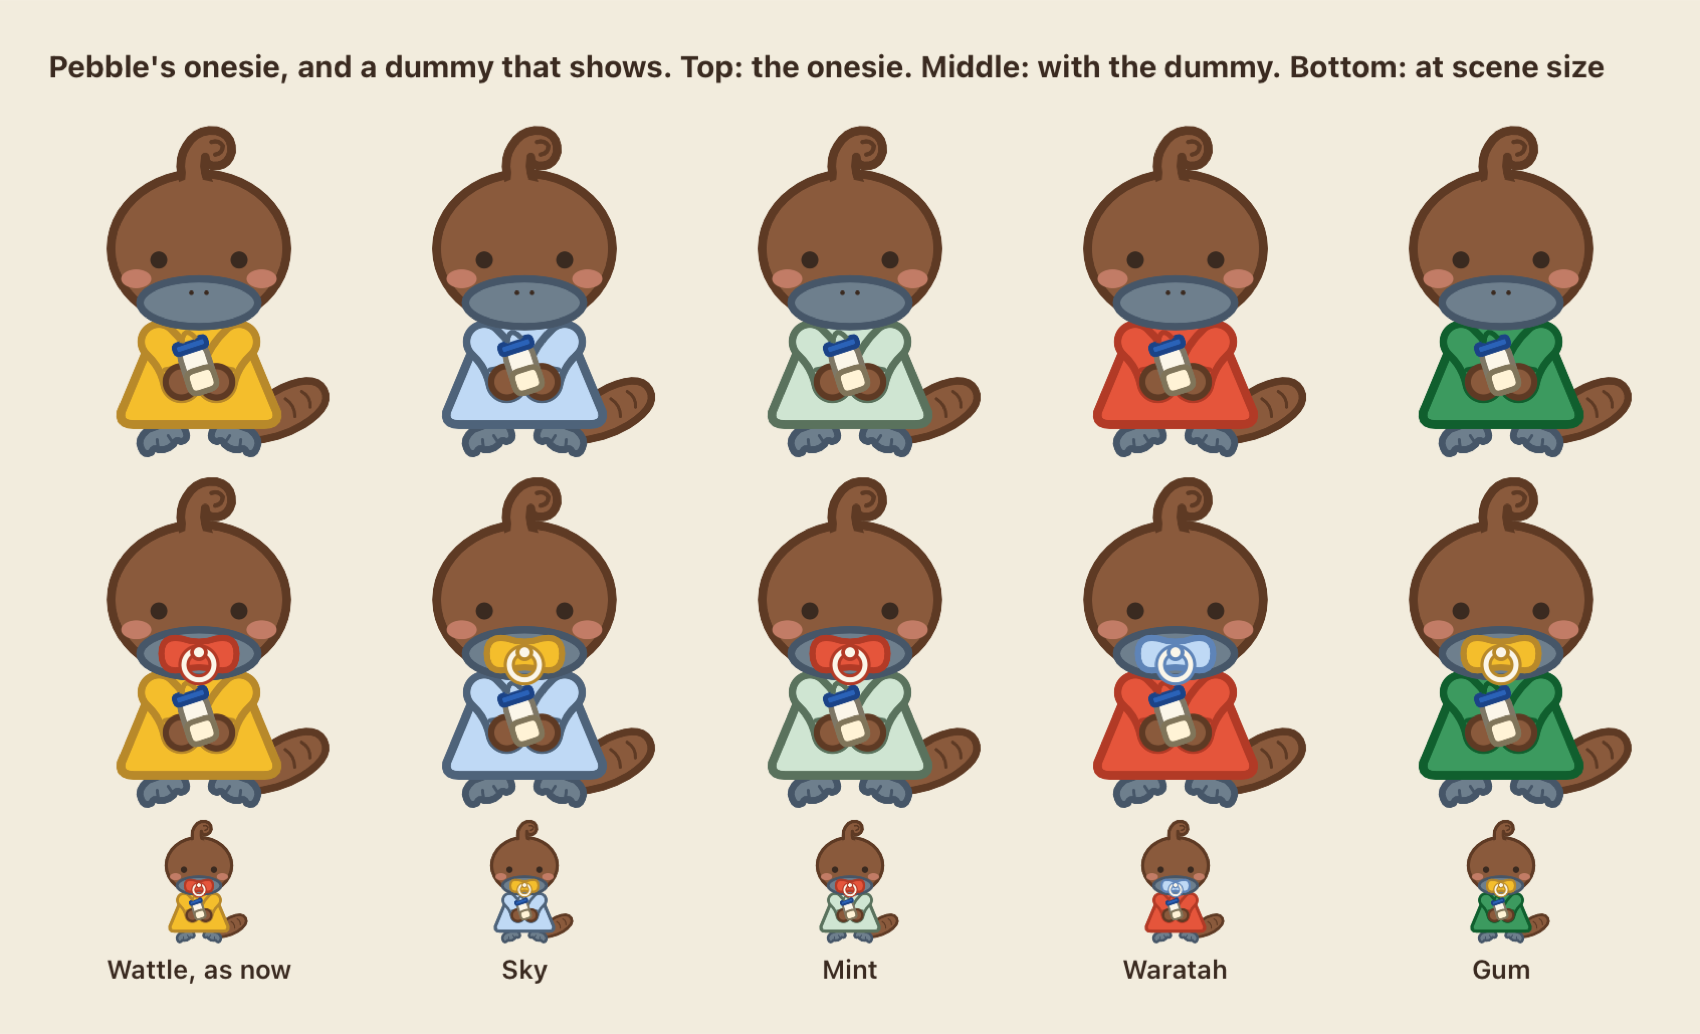
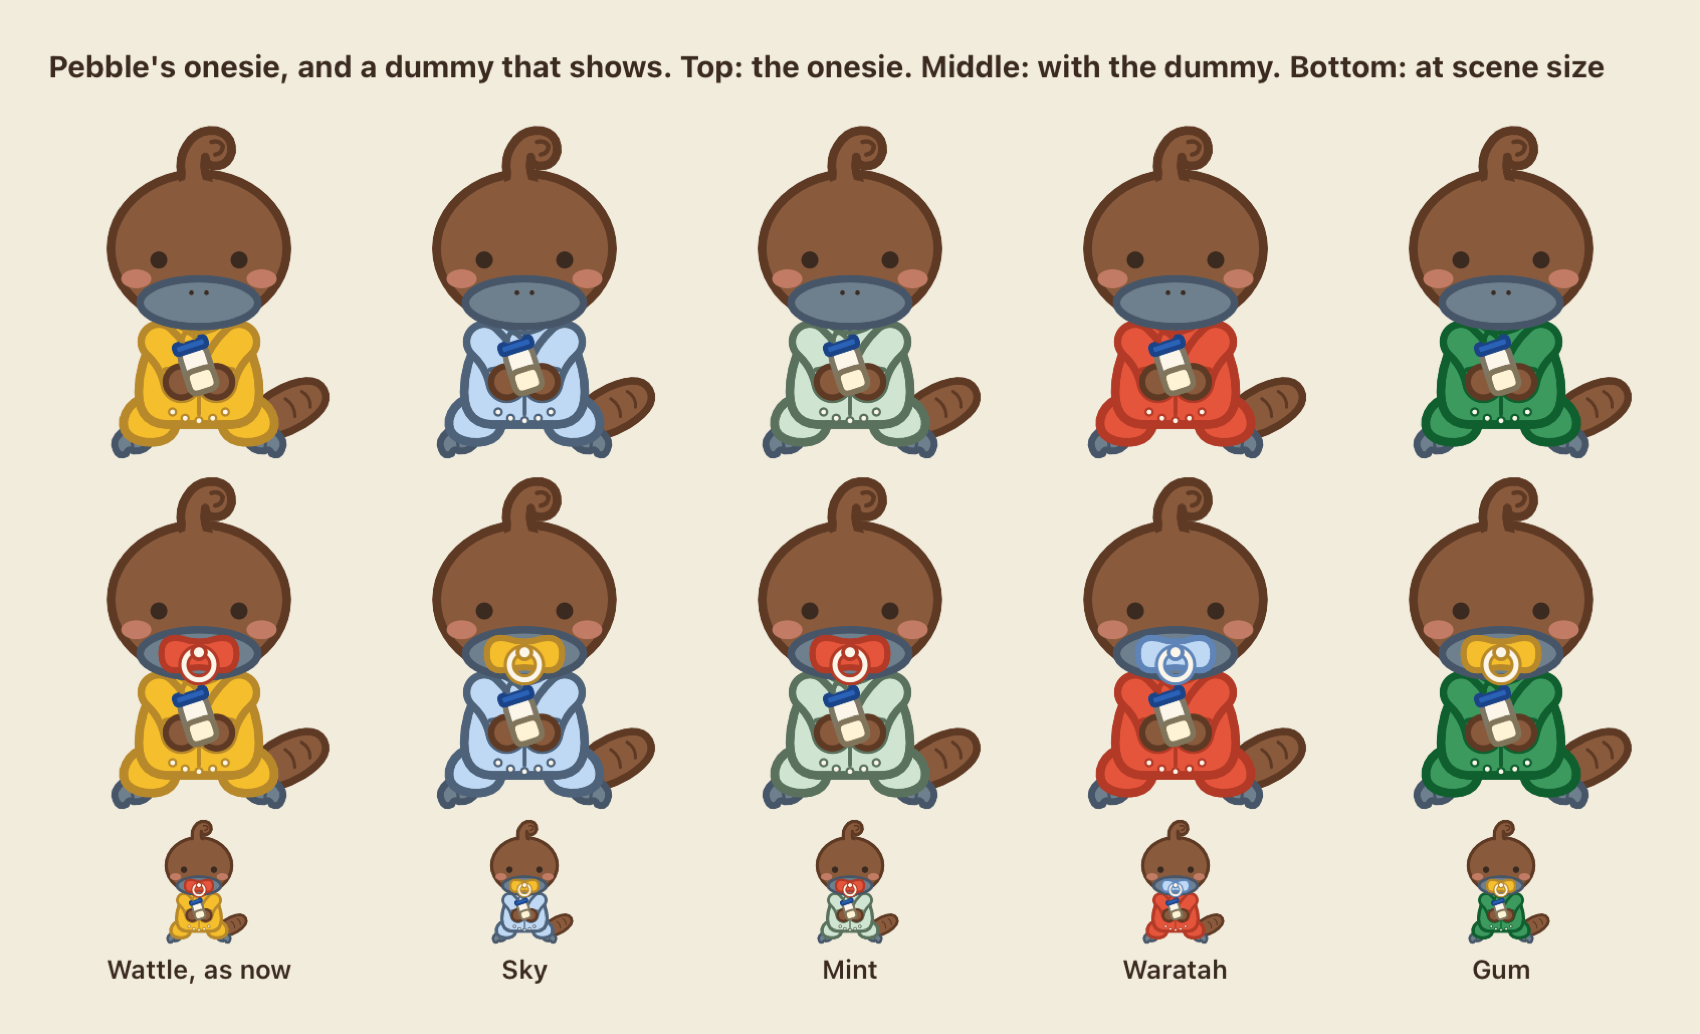
Pebble: a babygro with legs and poppers, not a flared dress

diff --git a/app/tools/make_cast_rigs.py b/app/tools/make_cast_rigs.py
@@ -836,6 +836,31 @@ def regrow_tail(parts, grown, sitting=False):
     tail['pivot'] = [round(bx + 6, 1), round(by - 3, 1)]
     return parts
 
+
+# Pebble's babygro (Tom, 14 November 2026). The canvas drew a flared triangle, which read as a dress. A
+# babygro is close to the body: a rounded suit with a leg each side, poppers round the inside of the legs,
+# a seam down the front and a neckband. His feet come out of the ends of the legs.
+def babygro(parts):
+    upper = next(p for p in parts if p['id'] == 'upper')
+    suit = upper['shapes'][0]
+    def piece(d, w=None): return {'kind': 'path', 'd': d, 'fill': suit['fill'], 'stroke': suit['stroke'], 'tint': suit.get('tint'), 'width': w or suit['width']}
+    def seam(d, w=3): return {'kind': 'path', 'd': d, 'stroke': suit.get('tint') or INK, 'width': w, 'cap': 'round'}
+    leg = 'M86 224 Q106 230 102 249 Q98 264 77 262 Q58 259 60 244 Q64 227 86 224 Z'
+    cuff = 'M63 240 Q59 250 66 259'
+    body = 'M92 166 Q120 158 148 166 Q168 194 168 222 Q168 247 146 248 L94 248 Q72 247 72 222 Q72 194 92 166 Z'
+    poppers = [{'kind': 'ellipse', 'x': x, 'y': y, 'rx': 2.8, 'ry': 2.8, 'fill': '#FBF6E9', 'stroke': INK, 'tint': suit.get('tint'), 'width': 1.8}
+               for x, y in ((99, 238), (109, 243), (120, 245), (131, 243), (141, 238))]
+    upper['shapes'] = ([piece(leg), piece(mirrored(leg)), seam(cuff, 3.5), seam(mirrored(cuff), 3.5), piece(body),
+                        seam('M120 172 L120 240'), seam('M102 169 Q120 181 138 169', 3.5)] + poppers + upper['shapes'][1:])
+    # His feet, out at the ends of the legs.
+    for side, dx in (('left', -20), ('right', 20)):
+        foot = next(p for p in parts if p['id'] == f'foot-{side}')
+        for shp in foot['shapes']:
+            if 'd' in shp: shp['d'] = moved(shp['d'], dx, 1)
+            if 'x' in shp: shp['x'] += dx; shp['y'] += 1
+        foot['pivot'] = [foot['pivot'][0] + dx, foot['pivot'][1] + 1]
+    return parts
+
 def build(name, svg, height, about, shade, moves, puggle):
     grown = height > 400
     if grown:
@@ -973,6 +998,7 @@ def build(name, svg, height, about, shade, moves, puggle):
             closed.append({'kind': 'path', 'd': f'M{x - r:g} {y - 1:g} Q{x:g} {y + r - 1:g} {x + r:g} {y - 1:g}', 'stroke': INK, 'width': 4.5, 'cap': 'round'})
         parts.append({'id': 'eyes-closed', 'parent': 'head', 'pivot': [120, 110], 'when': 'eyes=closed', 'shapes': closed})
     parts = regrow_tail(parts, grown, sitting=name == 'pebble')
+    if name == 'pebble': parts = babygro(parts)
     parts = join_to_head(name, parts)
     parts = grow_hair(name, parts)
     parts = dress_for_weather(name, parts, puggle, shade)

diff --git a/docs/baby-tracker-spec.md b/docs/baby-tracker-spec.md
@@ -564,6 +564,7 @@ Two tiers, confirmed by Tom: **line icons with one accent in the app; full-colou
 - **How an umbrella is held (Tom, 2026-11-14, built).** The umbrella stands straight up, at one height and one size for everyone, and **all of it is in front of the character**: shaft, handle and canopy are the last things drawn, over the head, ears, spines, bows and hats. So the shaft does not cross the face, it stands beside it, and the arm changes: with the umbrella up, a second right arm (`arm-right-hold`) is shown, raised with the fist up beside the cheek, so only a short length of shaft shows below the canopy, and the usual arm is hidden. Heads sit at one height in every drawing, so the fist is at the same height against the face for grown-ups and children. The wooden handle is short and hooks round just below the fist. The canopy is full size and centred on the shaft, so it reaches past the character's side; these four rigs carry `sideroom`, and `CastView` draws them on a wider surface without changing where they stand or how much room they take. The canopy has three ribs, fine lines in a darker shade of its own colour from the tip to each point where two scallops meet. They cannot wave with that arm while holding it.
 - **The platypus tail, redrawn (Tom, 2026-11-14, built).** The tail was an oval lying beside the legs with a line down its middle and two across: it read as a leaf, and on the grown-ups it floated clear of the body (Dad's hung beside his knees). It is now a **paddle**: narrow where it leaves the body, broad and round at the end, with two short ridges across and no midline. Its base is tucked in behind the body, so it always grows out of them. It leaves the body at the hip, level with the hand, not down by the knees; a sitting baby's stays near the ground. The same shape for Puggle, Pebble, Mum, Dad, Nan and Pop (`paddle` and `regrow_tail` in `app/tools/make_cast_rigs.py`; Puggle's is in `puggle.rig.json`). Its pivot moved to the new base. Sheet: `docs/previews/platypus-tails.png`.
 - **Decided 14 November 2026 (Tom).** (1) **Nan has a set of curls**, not a bun: built (`curls`, with her side curls). (2) **Quill's spines stay the brown of her head.** (3) **Pebble's dummy** is a mock-up only, as an occasional prop for sleepy moments: a shield and ring resting on the front of his closed bill, which does not change (`docs/previews/pebble-dummy.png`); not built. (4) **The tested movement is switched on in the app** (`RigRuntime.refined` now defaults to on): the blink that shuts fast and opens slowly; eyes leading a head tilt; the hop with weight (`play` picks a move's `-refined` version where there is one); the eye smear (checked frame by frame: stretched at 16 and 50 ms, round again by 100 ms; `docs/previews/eye-smear.png`); and ears, spines and hair taking a position for a feeling (`RigFeeling` in `Rig.swift`): sleepy while asleep, happy during a wave or a hooray, a smaller happy for a nod, surprised on waking, curious while the eyes follow a finger. At night the positions are halved with everything else. Shy is defined but nothing triggers it yet. The tail does not yet take part.
+- **Pebble's babygro (Tom, 2026-11-14, built).** The canvas drew his garment as a flared triangle, which read as a dress. It is now a babygro: a rounded suit close to the body, a leg each side with a cuff, poppers round the inside of the legs, a seam down the front and a neckband, with his feet out at the ends of the legs (`babygro` in `app/tools/make_cast_rigs.py`). It comes in wattle (as drawn), sky, mint, shell, waratah and gum. **Open:** which colour is his own (wattle is now the rain colour), and whether he has a dummy; the mock-up dummy is larger than the first, with a pale ring, in a colour that contrasts with the babygro (`docs/previews/pebble-dummy.png`).
 - **Wallpapers and books, second version** (Brand page). Wallpapers: two lock-screen scenes (Morning, Bedtime) with the sky left clear for the clock, plus three repeats: round sticker badges of the cast over a gum-leaf and quatrefoil line pattern, a one-colour line repeat (prints as one screen), and a single-character brick repeat with a soft shadow. Books: covers are the scenes (Puggle at the Beach; Night Night, Puggle; Puggle and the Big Puddle; Puggle Goes to Nan's), title in the scene's sky colour, series name at the foot, Ink spine; spreads are words left, picture right. First versions are on the Archive page.
 - **Animal Crossing wallpaper references (Tom, 2026-11-10).** Ideas taken: sticker heads with a coloured edge over a house-motif line pattern; one-colour line repeats; one character tiled with a soft shadow; a quiet screen with a small scene at the bottom; soft star sprinkles. Not taken: any Nintendo character, the leaf mark, or their colours. Our motifs are the gum leaf and the quatrefoil. A second batch (Mario, Pikmin and Animal Crossing wallpapers) added three more: **tone on tone** (the activity icons as a one-colour pattern with the cast in front), **the parade** (everyone in a row along the bottom, a faint motif grid above, bushes in front) and **night lines** (the activity icons as line drawings on night blue). Lessons: leave room; tone on tone; one motif family (gum leaf, quatrefoil, activity icons); the same drawings work as line or as flat shapes.
 - **Motion studies for Rive** (canvas: Characters page; sources in `design/canvas/gen/motion.py`). Looping SVG sketches, to be rebuilt in the Rive editor. Puggle: **Idle** (breath, blink every 4 s on its own layer, tail drift), **Wave** (greet), **Hooray** (squash, jump, land, quatrefoils pop), **Sleepy** (slow breath, nodding head, floating z), **Walk** (two key poses). State machine "Mood": triggers `greet` and `celebrate` return to Idle; booleans `asleep` and `walking`. Scenes get slow ambient loops (rising sun, twinkling stars, falling rain, falling confetti) with Puggle nested; Reduce Motion shows the still scene. Second pass added anticipation, squash and stretch about the feet, follow-through (tail, clip and head a beat late), idle one-offs (a glance, a tail flick), a falling-asleep transition and a four-key walk (contact, down, passing, up). Parts for import, with named groups: `design/rive/puggle-parts.svg`. The contract between the Rive file and the app (file, artboard, state machine and input names, timings, order of work) is `design/rive/README.md`; the app side is `PuggleView` and `PuggleController`.
